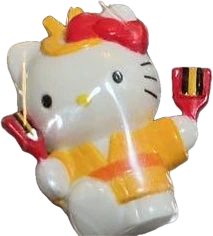
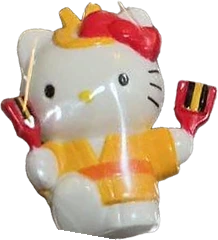
Straighten four cut-outs, and add a way to do it
0002 -10, 0004 +10, 0005 -45, 0009 -40 degrees. 0005's waterfall now falls
vertically instead of sideways, and 0009's okojo stands head-up rather than
lying diagonally.

Adds `npm run photos:rotate -- NNNN <deg>`. Preview only does 90 degree steps
without a fight; this takes any angle, keeps the alpha, and re-trims the
transparent margin so framing stays tight. `--dry` writes a preview instead of
touching the real files, and the previous version is kept in
photos/archive/pre-rotate/ as one undo step.

Rotation resamples, so it warns against stacking corrections: re-rotate from
the original rather than nudging twice.

Also corrects CLAUDE.md, which still said 13 sourced images when there are 24.

diff --git a/scripts/rotate_cutout.py b/scripts/rotate_cutout.py
@@ -1,0 +1,58 @@
+#!/usr/bin/env python3
+"""Rotate an installed cut-out by any angle, keeping transparency.
+
+    npm run photos:rotate -- 0009 -12        rotate 0009 twelve degrees clockwise
+    npm run photos:rotate -- 0009 8          ...and eight degrees anticlockwise
+    npm run photos:rotate -- 0009 -12 --dry  write a preview, leave the real files alone
+
+Positive is anticlockwise, matching how you would describe it out loud
+("tilt it left"). Negative is clockwise.
+
+Rotates the master in photos/cutouts/, re-trims the transparent margin so
+framing stays tight, and rewrites the served WebP. Preview can only do 90
+degree steps without pain; this does arbitrary angles with bicubic resampling.
+
+Rotation is lossy -- each pass resamples. Prefer one rotation of -12 over four
+of -3, and if you overshoot, re-rotate from the ORIGINAL rather than stacking a
+correction on top.
+"""
+import os, sys, glob
+from PIL import Image
+
+def main():
+    args = [a for a in sys.argv[1:] if not a.startswith("--")]
+    dry = "--dry" in sys.argv
+    if len(args) < 2:
+        print(__doc__); return 64
+    no, deg = args[0], float(args[1])
+    hits = glob.glob(f"photos/cutouts/{no}-*.png")
+    if not hits:
+        print(f"No cut-out for {no}. Have: "
+              f"{', '.join(sorted(os.path.basename(f)[:4] for f in glob.glob('photos/cutouts/*.png')))}")
+        return 1
+    master = hits[0]
+    kind = "figure" if "figure" in master else "reference"
+    im = Image.open(master).convert("RGBA")
+    before = im.size
+    out = im.rotate(deg, resample=Image.BICUBIC, expand=True)
+    bb = out.getbbox()
+    if bb:
+        out = out.crop(bb)
+    if dry:
+        p = f"photos/drafts/{no}-rotated-{deg:g}.png"
+        out.save(p)
+        print(f"  {no}  {before[0]}x{before[1]} -> {out.size[0]}x{out.size[1]}  preview: {p}")
+        return 0
+    # keep one undo step
+    os.makedirs("photos/archive/pre-rotate", exist_ok=True)
+    Image.open(master).save(f"photos/archive/pre-rotate/{os.path.basename(master)}")
+    out.save(master)
+    served = f"public/img/charms/{no}-{kind}.webp"
+    out.save(served, "WEBP", quality=92, method=6)
+    print(f"  {no}  {before[0]}x{before[1]} -> {out.size[0]}x{out.size[1]}  rotated {deg:g} deg")
+    print(f"  previous version kept in photos/archive/pre-rotate/")
+    print("  run: npm run db:seed   (paths unchanged, but restart the dev server to see it)")
+    return 0
+
+if __name__ == "__main__":
+    sys.exit(main())
